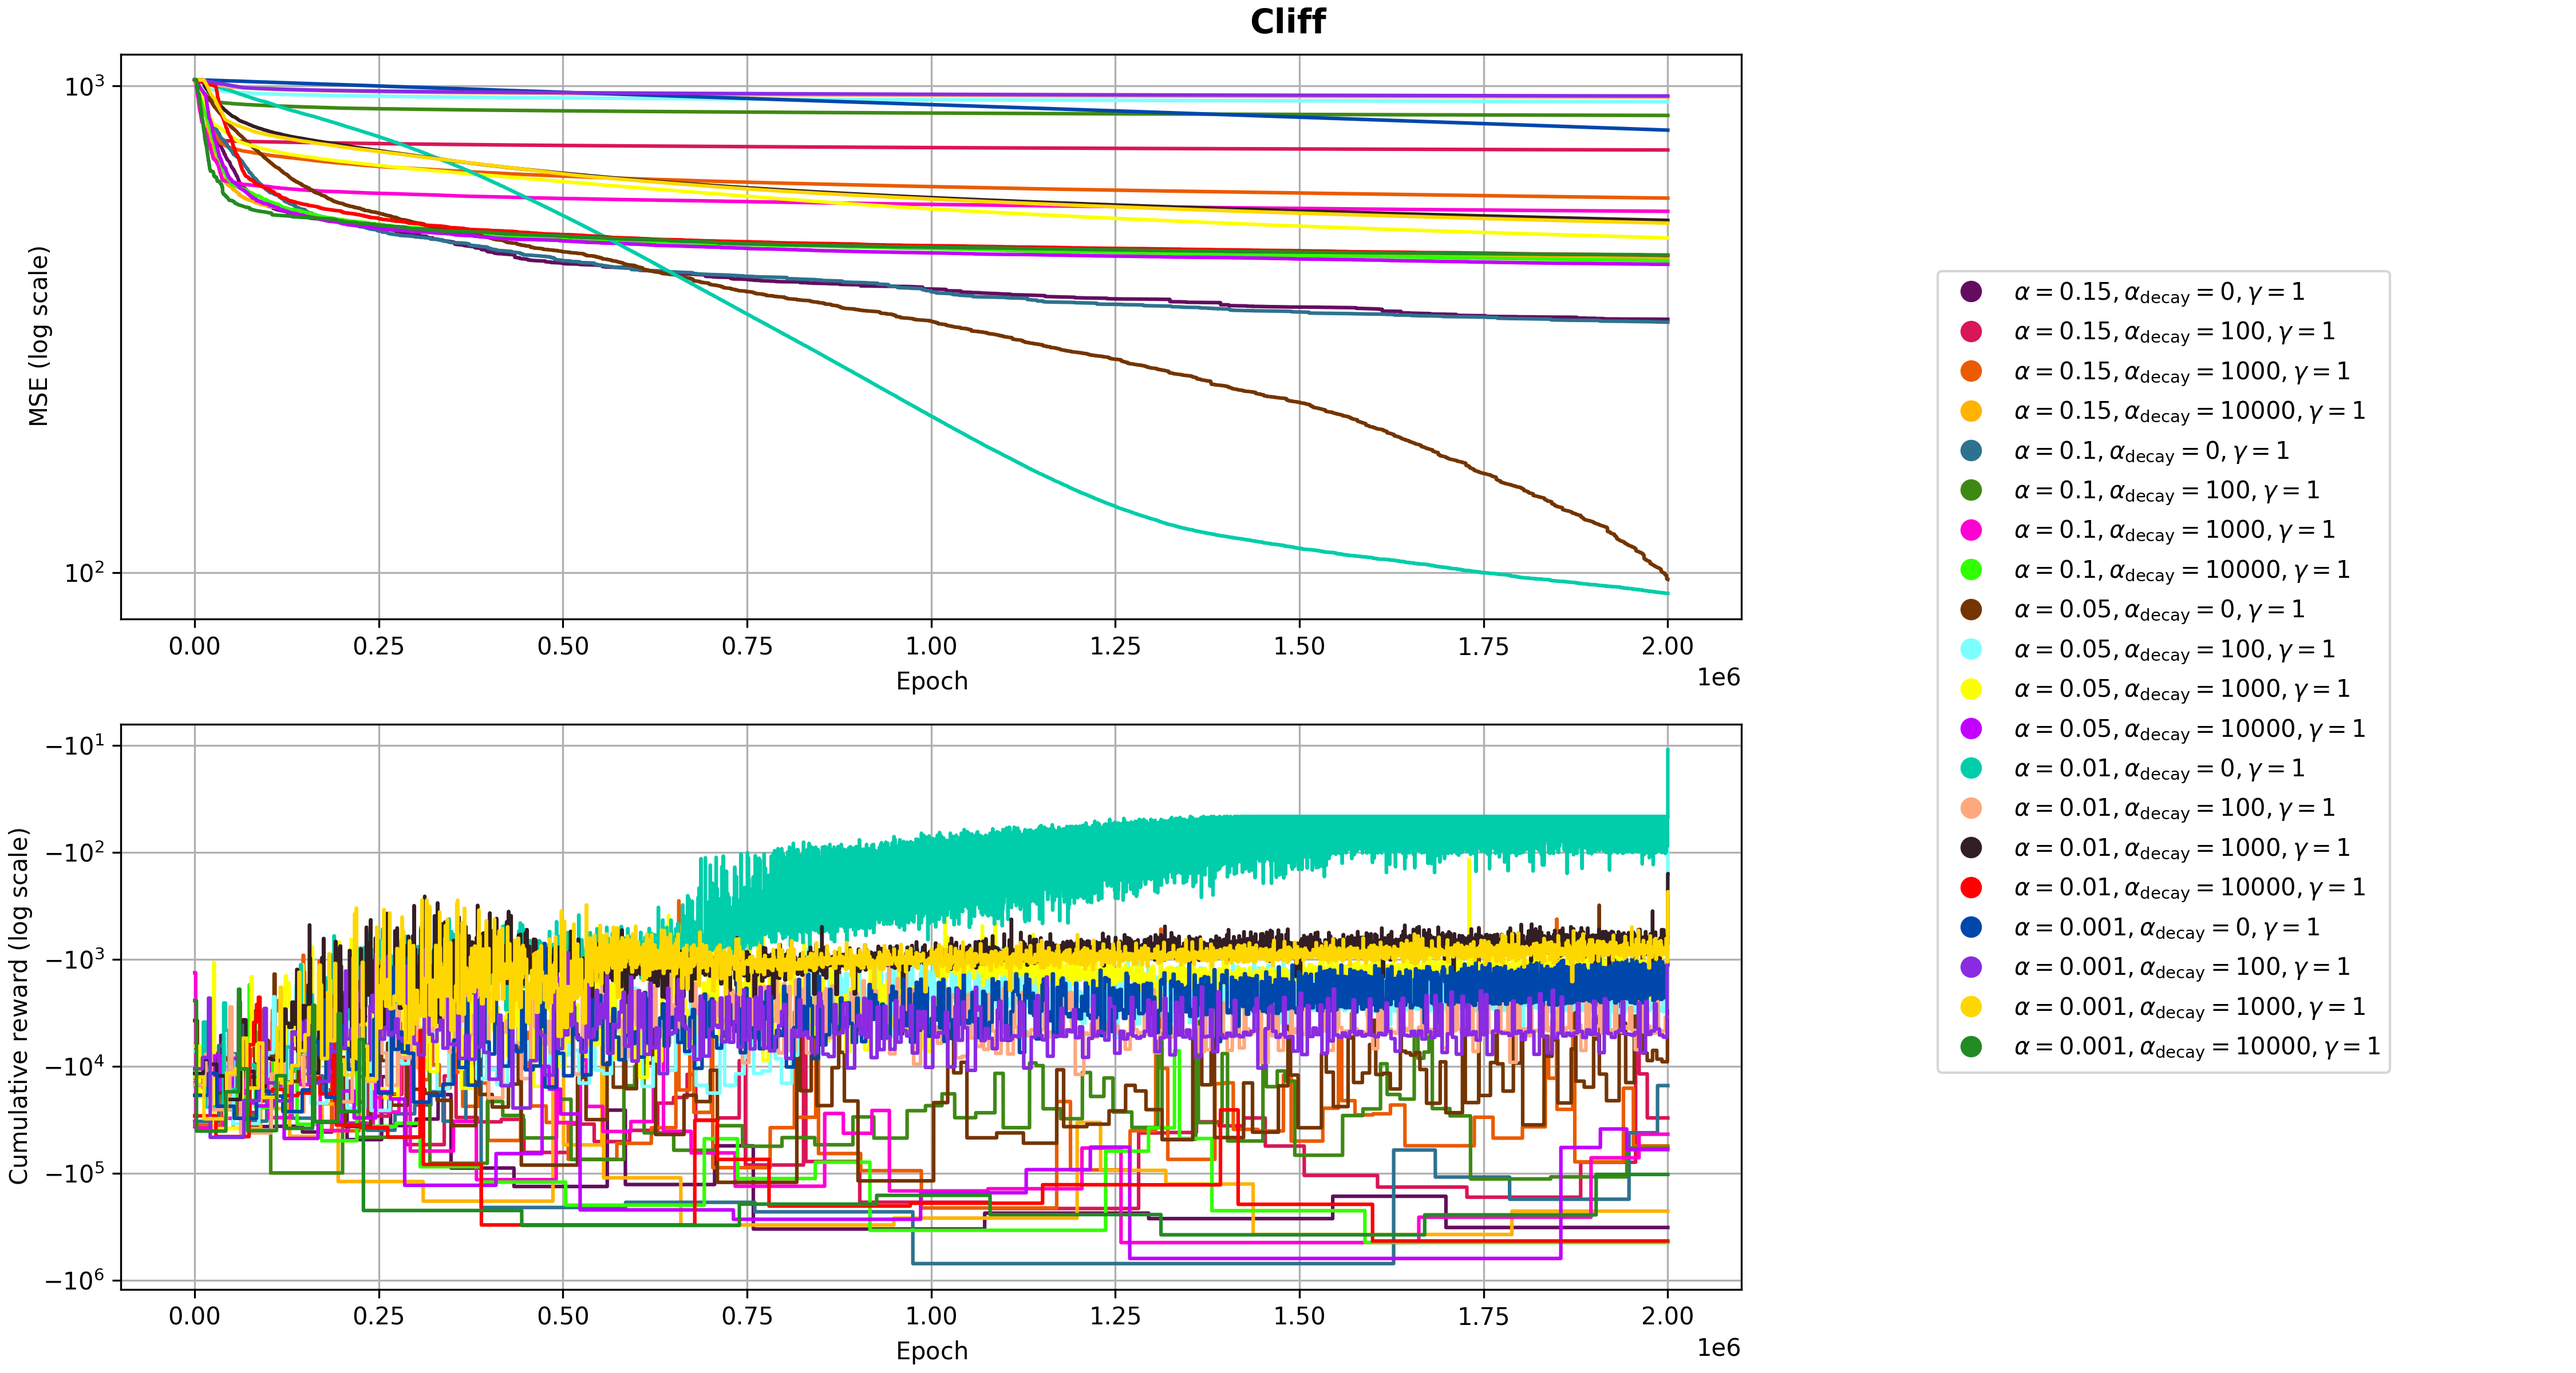
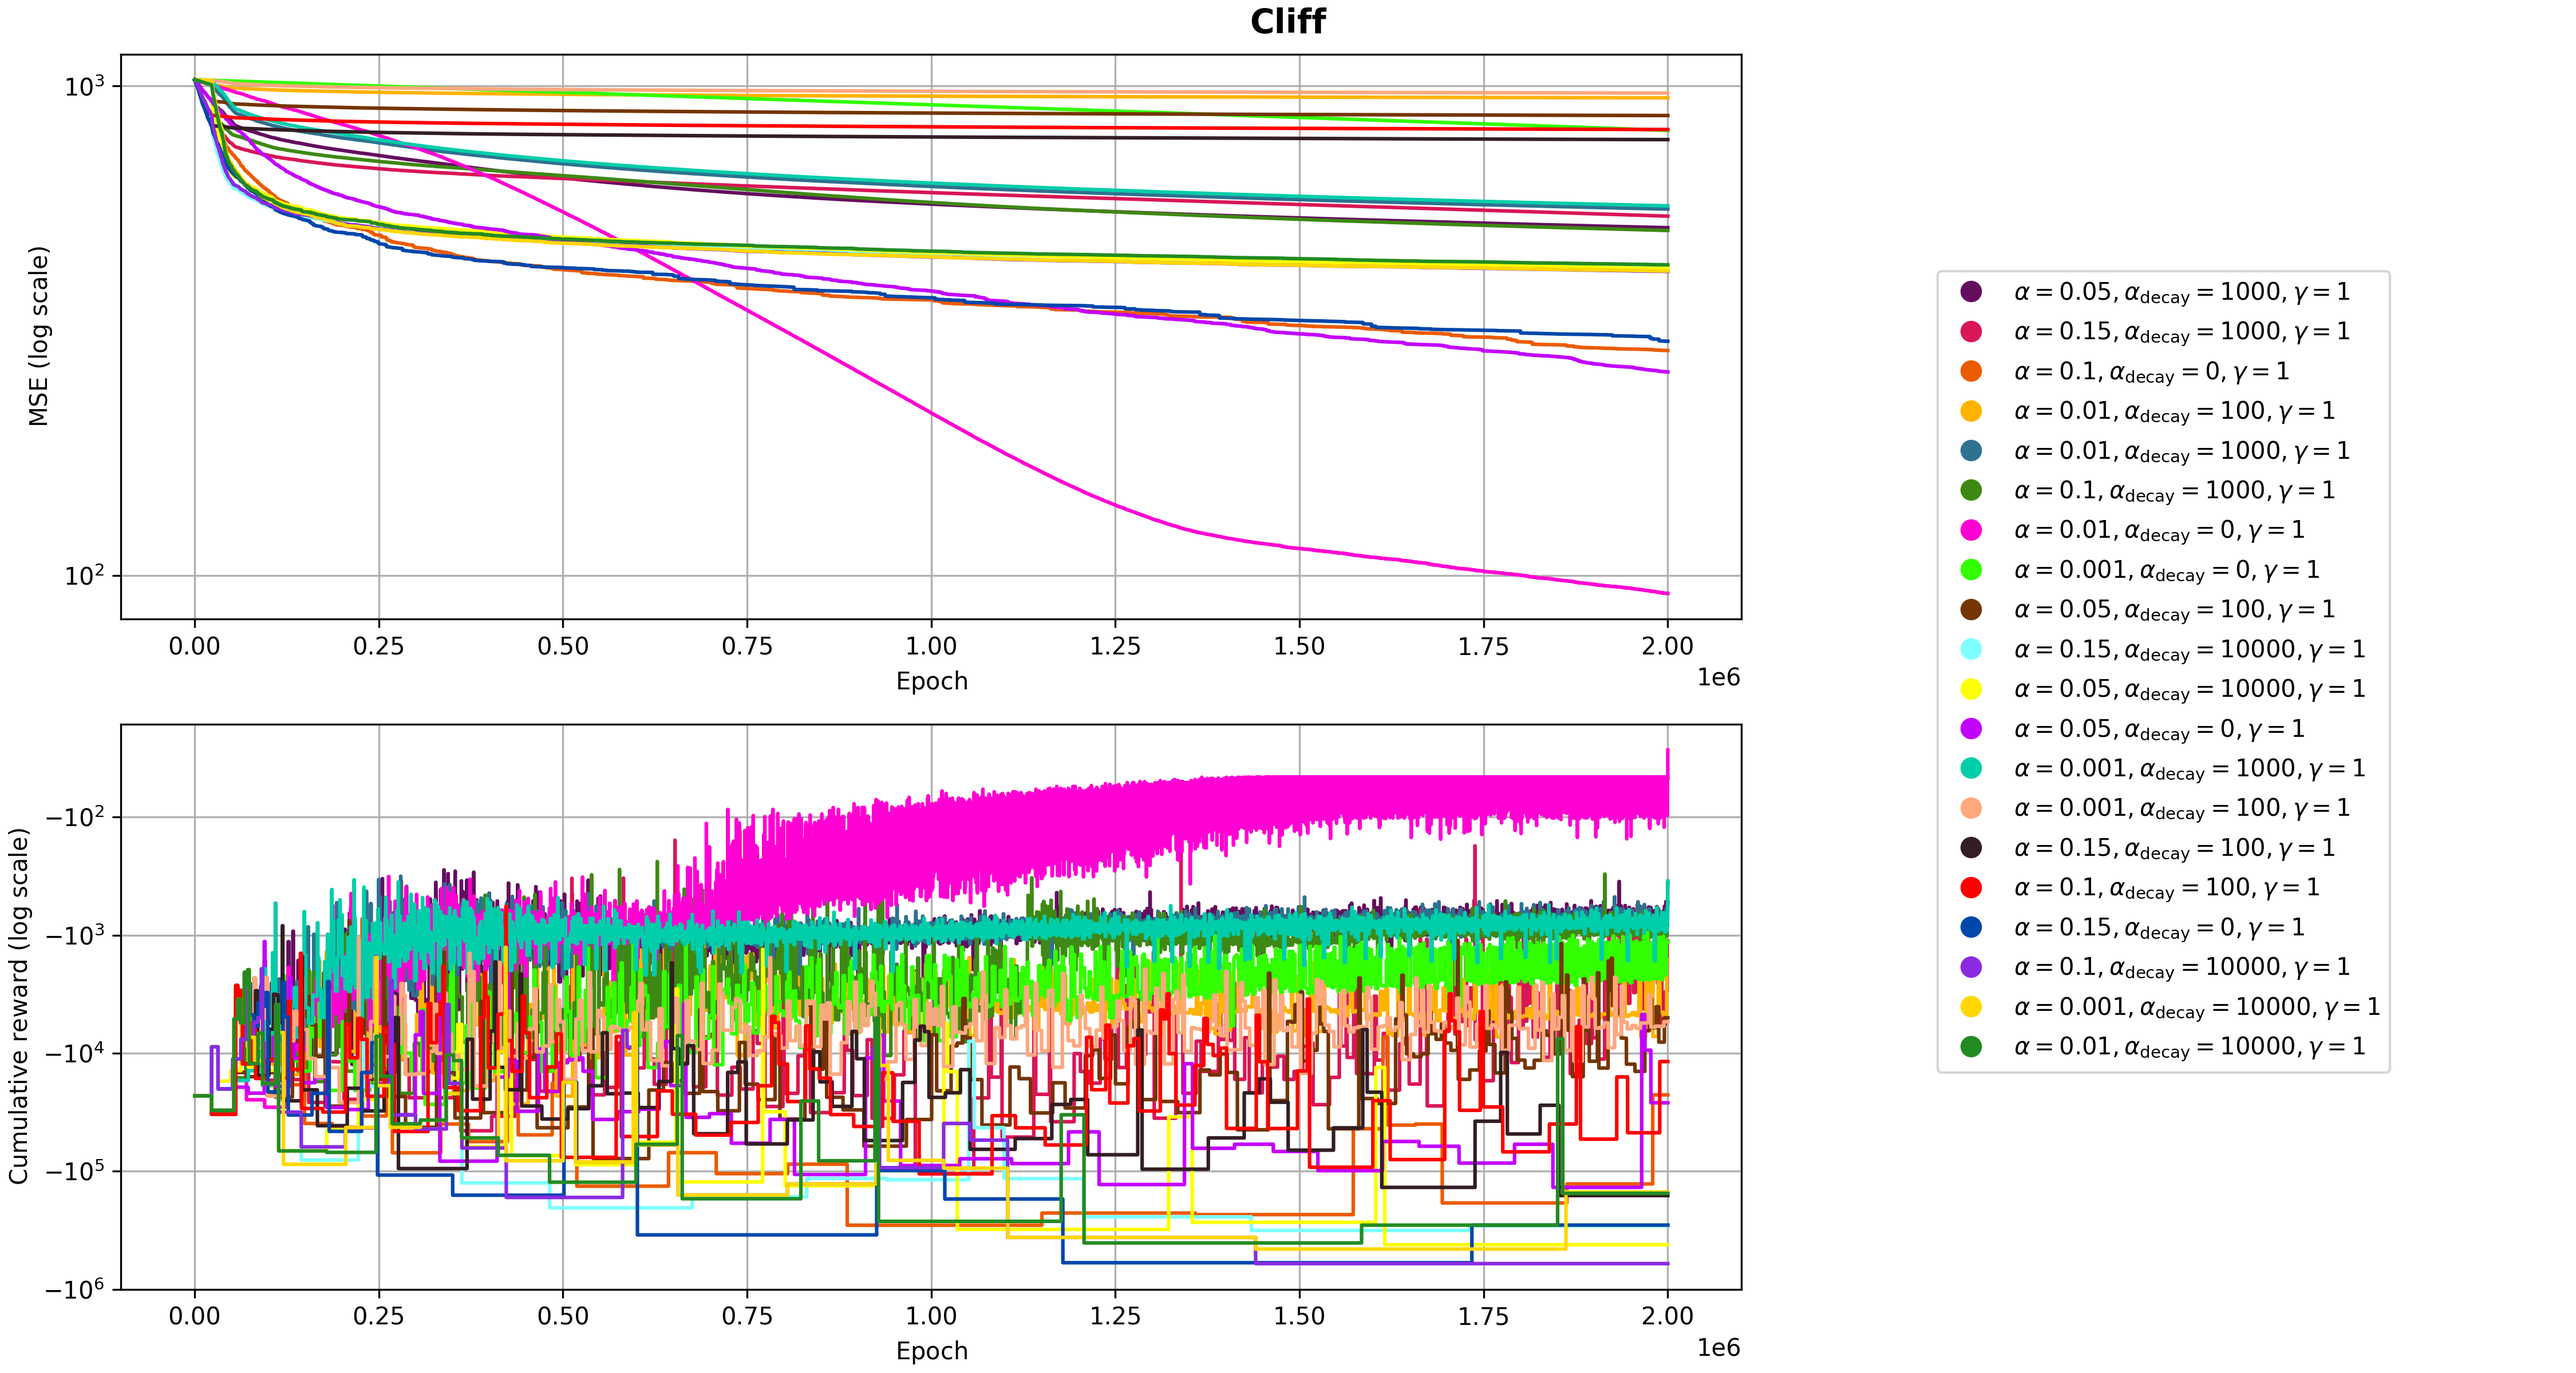
Parallelization of the hyperparameter testing and some documentation

diff --git a/algorithms.py b/algorithms.py
@@ -6,6 +6,7 @@ from itertools import product
 import random
 import os
 import pickle
+import concurrent.futures
 
 
 class QLearning:
@@ -180,13 +181,35 @@ class QLearning:
 
 
 class QLearningHyperparameters:
+    """
+    Represents the hyperparameters used for Q-Learning.
+
+    Attributes:
+        alpha (float): The learning rate that determines the extent to which newly acquired information overrides old information.
+        alpha_decay (int): The rate at which the learning rate decays over time.
+        gamma (float): The discount factor that determines the importance of future rewards.
+        latex (bool): Whether to format the string representation in LaTeX style (default: True).
+    """
+
     def __init__(self, alpha: float, alpha_decay: int, gamma: float, latex: bool = True):
+        """
+        Initializes a QLearningHyperparameters instance.
+
+        Args:
+            alpha (float): The learning rate.
+            alpha_decay (int): The rate of learning rate decay.
+            gamma (float): The discount factor for future rewards.
+            latex (bool, optional): Whether to use LaTeX formatting for the string representation. Defaults to True.
+        """
         self.alpha = alpha
         self.alpha_decay = alpha_decay
         self.gamma = gamma
         self.latex = latex
-    
+
     def __str__(self):
+        """
+        Returns a formatted string representation of the hyperparameters in latex style, if self.latex is True.
+        """
         return "{} {}, {} {}, {} {}".format(
             '\\alpha =' if self.latex else 'Alpha:', self.alpha, 
             '\\alpha_\\text{decay} =' if self.latex else 'Alpha decay:', self.alpha_decay,
@@ -196,14 +219,43 @@ class QLearningHyperparameters:
 
 
 
-
 class QLearningPlotter:
-    def __init__(self, save_path: str, vertical: bool = False, domain_name: str = ""):
+    """
+    Plots the results of Q-Learning experiments, including rewards and errors, 
+    with support for multiple hyperparameter configurations.
+
+    Attributes:
+        save_path (str): The directory where the plots will be saved.
+        domain_name (str): The name of the domain or problem being analyzed (used as the plot title).
+    """
+    def __init__(self, save_path: str, domain_name: str = ""):
+        """
+        Initializes a QLearningPlotter instance.
+
+        Args:
+            save_path (str): The path to save the plot.
+            domain_name (str, optional): A descriptive name for the problem domain. Defaults to an empty string.
+        """
         self.save_path = save_path
-        self.vertical = vertical
         self.domain_name = domain_name
     
     def plot(self, rewards: list[list[float]], errors: list[list[float]], hyperparameters: list[QLearningHyperparameters]):
+        """
+        Generates and saves a plot visualizing rewards and errors for various hyperparameter configurations.
+
+        Args:
+            rewards (list[list[float]]): A list of reward sequences, where each inner list corresponds 
+                                         to a specific hyperparameter configuration.
+            errors (list[list[float]]): A list of error sequences, where each inner list corresponds 
+                                        to a specific hyperparameter configuration.
+            hyperparameters (list[QLearningHyperparameters]): A list of hyperparameter configurations 
+                                                              corresponding to the reward and error sequences.
+
+        Notes:
+            - The plot includes two subplots: one for errors and one for cumulative rewards.
+            - The legend is dynamically created based on the hyperparameter configurations.
+            - Results are saved as a PNG image in the specified save path.
+        """
         custom_palette = ["#640D5F", "#D91656", "#EB5B00", "#FFB200", "#2D728F", "#3E8914", "#FF00D3", "#32FF00", "#743500", "#7DFFFF", "#FBFF00", "#C300FF", "#00CDAA", "#FFA87E", "#331E23", "#FF0000", "#0047AB", "#8A2BE2", "#FFD700", "#228B22"]
         
         n_rows = 2
@@ -260,7 +312,32 @@ class QLearningPlotter:
 
 
 class QLearningHyperparameterExplorer:
-    def __init__(self, mdp: MDP, alphas: list[float], alphas_decays: list[int], gammas: list[float], epochs: int, out_path, domain_name: str):
+    """
+    Tests different combinations of Q-learning hyperparameters to determine which is the best one.
+
+    Attributes:
+        mdp (MDP): the MDP instance that wants to be solved.
+        alphas (list[float]): the list of learning rates that want to be tested.
+        alphas_decays (list[int]): the learning rates decrease that want to be tested.
+        gammas (list[float]): the list of discount factor for future rewards that wants to be tested.
+        epochs (int): the number of epochs for which the MDP will be trained.
+        out_path (str): the path where the generated files and the plot will be stored.
+        domain_name (str): the name of the MDP domain that is being trained.
+        __q_plotter (QLearningPlotter): an instance of a Q-learning plotter, that is responsible of plotting the different errors and rewards obtained during training with each combination of hyperparamters.
+    """
+    def __init__(self, mdp: MDP, alphas: list[float], alphas_decays: list[int], gammas: list[float], epochs: int, out_path: str, domain_name: str):
+        """
+        Initializes a QLearningHyperparameterExplorer instance.
+
+        Args:
+            mdp (MDP): the MDP instance that wants to be solved.
+            alphas (list[float]): the list of learning rates that want to be tested.
+            alphas_decays (list[int]): the learning rates decrease that want to be tested.
+            gammas (list[float]): the list of discount factor for future rewards that wants to be tested.
+            epochs (int): the number of epochs for which the MDP will be trained.
+            out_path (str): the path where the generated files and the plot will be stored.
+            domain_name (str): the name of the MDP domain that is being trained.
+        """
         self.mdp = mdp
         self.alphas = alphas
         self.alphas_decays = alphas_decays
@@ -276,10 +353,62 @@ class QLearningHyperparameterExplorer:
             
         self.out_path = out_path
         
-        self.__q_plotter = QLearningPlotter(out_path, vertical=True, domain_name=domain_name)
+        self.__q_plotter = QLearningPlotter(out_path, domain_name=domain_name)
         
         
+    
+    def _test_combination(self, alpha, alpha_decay, gamma) -> tuple[list[float], list[float], QLearningHyperparameters, float, int, float, int]:
+        """
+        Tests a specific combination of hyperparameters for Q-learning
+        
+        Args:   
+            alpha (float): The learning rate, which determines the impact of new information on the existing knowledge.
+            alpha_decay (float): The rate at which the learning rate decays over time.
+            gamma (float): The discount factor, representing the importance of future rewards.
+
+        Returns:
+            tuple: A tuple containing:
+                - reward (list[float]): The cumulative reward values recorded during training.
+                - error (list[float]): The mean squared error values recorded during training.
+                - hyperparameters (QLearningHyperparameters): A QLearningHyperparameters instance with the different hyperparameters tested
+                - max_reward_local (float): The maximum reward observed during training.
+                - max_reward_epoch_local (int): The epoch at which the maximum reward was observed.
+                - min_error_local (float): The minimum error observed during training.
+                - min_error_epoch_local (int): The epoch at which the minimum error was observed.
+        """
+        print(f"{os.getpid()}. Testing: Alpha = {alpha}, Alpha decay = {alpha_decay}, Gamma = {gamma}")
+        q_learner = QLearning(
+            self.mdp,
+            alpha=alpha,
+            gamma=gamma,
+            info_every=500000,
+            alpha_decay=alpha_decay  
+        )
+        _, _, reward, error = q_learner.train(num_steps=self.epochs)
+        
+        max_reward_local = np.max(reward)
+        max_reward_epoch_local = np.argmax(reward)
+        min_error_local = np.min(error)
+        min_error_epoch_local = np.argmin(error)
+        
+        return reward, error, QLearningHyperparameters(alpha, alpha_decay, gamma), max_reward_local, max_reward_epoch_local, min_error_local, min_error_epoch_local
+        
+    
     def test_hyperparameters(self):
+        """
+        Tests various combinations of hyperparameters for Q-Learning and evaluates their performance. It stores the
+        different errors and rewards obtained during training in case they want to be later used for other purposes.
+
+        This method:
+        - Iterates through all combinations of hyperparameters (alpha, alpha_decay, gamma).
+        - Uses multiprocessing to speed up the evaluation of each combination.
+        - Tracks and identifies the hyperparameter combination that produces:
+            - The maximum reward.
+            - The minimum error.
+
+        Returns:
+            None
+        """
         rewards = []
         errors = []
         hyperparameters = []
@@ -287,34 +416,32 @@ class QLearningHyperparameterExplorer:
         max_reward, max_reward_epoch, max_reward_hyper = -np.inf, 0, (self.alphas[0], self.alphas_decays[0], self.gammas[0])
         min_error, min_error_epoch, min_error_hyper = np.inf, 0, (self.alphas[0], self.alphas_decays[0], self.gammas[0])
         
-        for i, (alpha, alpha_decay, gamma) in enumerate(combinations, start=1):
-            print(f"Combination [{i} / {len(combinations)}]. Alpha: {alpha}. Alpha decay: {alpha_decay}. Gamma: {gamma}")
-            q_learner = QLearning(
-                self.mdp,
-                alpha=alpha,
-                gamma=gamma,
-                info_every=500000,
-                alpha_decay=alpha_decay  
-            )
+        self.mdp.compute_value_function()
+        
+        # Concurrent hyperparameter testing
+        with concurrent.futures.ProcessPoolExecutor() as executor:
+            concurrent_comb = {
+                executor.submit(self._test_combination, alpha, alpha_decay, gamma) : (alpha, alpha_decay, gamma) for alpha, alpha_decay, gamma in combinations
+            }
             
-            _, _, reward, error = q_learner.train(num_steps=self.epochs)
-            if np.max(reward) > max_reward:
-                max_reward = np.max(reward)
-                max_reward_epoch = np.argmax(reward)
-                max_reward_hyper = (alpha, alpha_decay, gamma)
-            
-            if np.min(error) < min_error:
-                min_error = np.min(error)
-                min_error_epoch = np.argmin(error)
-                min_error_hyper = (alpha, alpha_decay, gamma)
+            for exec in concurrent.futures.as_completed(concurrent_comb):
+                reward, error, hyperparam, max_reward_local, max_reward_epoch_local, min_error_local, min_error_epoch_local = exec.result()
+
+                if max_reward_local > max_reward:
+                    max_reward = max_reward_local
+                    max_reward_epoch = max_reward_epoch_local
+                    max_reward_hyper = hyperparam
+                    
+                if min_error_local < min_error:
+                    min_error = min_error_local
+                    min_error_epoch = min_error_epoch_local
+                    min_error_hyper = hyperparam
                 
-            
-            rewards.append(reward)
-            errors.append(error)
-            hyperparameters.append(QLearningHyperparameters(alpha, alpha_decay, gamma))
+                rewards.append(reward)
+                errors.append(error)
+                hyperparameters.append(hyperparam)
         
-        
-        
+        print("Storing infromation...")
         self.__store_data(hyperparameters, "hyperparamters.pkl")
         self.__store_data(errors, "errors.pkl")
         self.__store_data(rewards, "rewards.pkl")

diff --git a/main.py b/main.py
@@ -61,14 +61,14 @@ if __name__ == "__main__":
     # plotter.plot_stats(savefig=False)
     
     explorer = QLearningHyperparameterExplorer(
-        gridworld_mdp,
+        minigrid_mdp,
         # alphas=[0.15, 0.1],
         alphas=[0.15, 0.1, 0.05, 0.01, 0.001],
         alphas_decays=[0, 100, 1000, 10000],
         # alphas_decays=[0],
         gammas=[1],
         epochs=2000000,
-        out_path="assets/exploration/gridworld_cliff",
+        out_path="assets/exploration/minigrid_cliff",
         domain_name="Cliff"
     )
     
